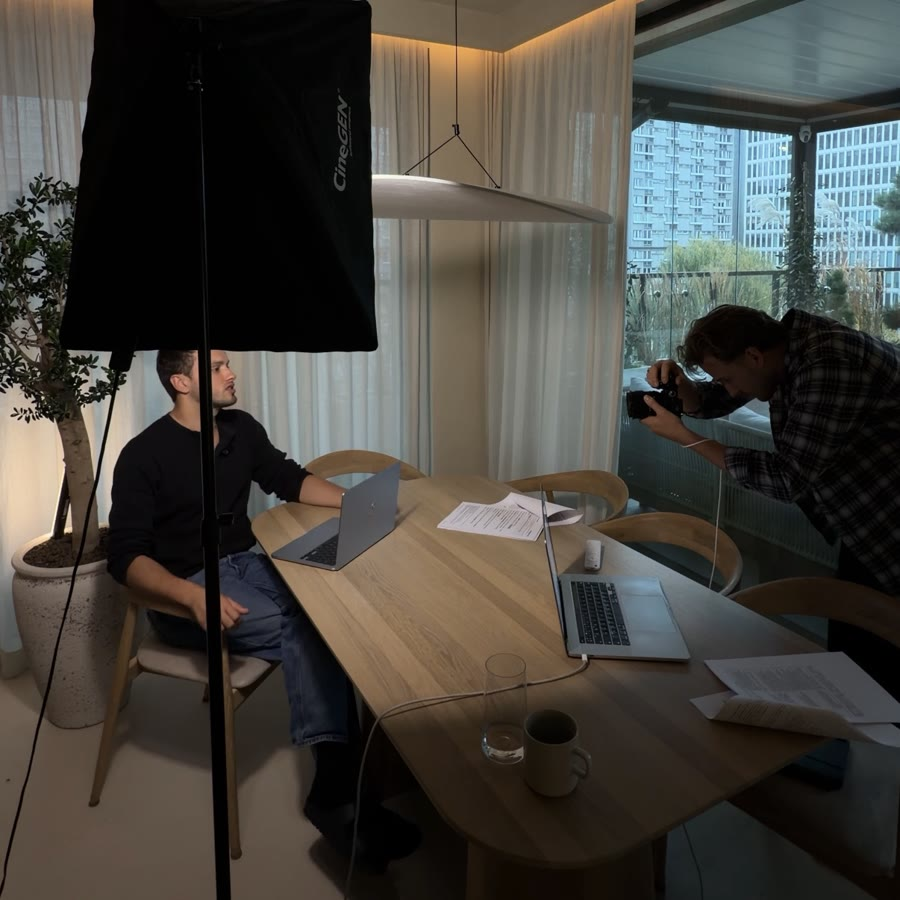
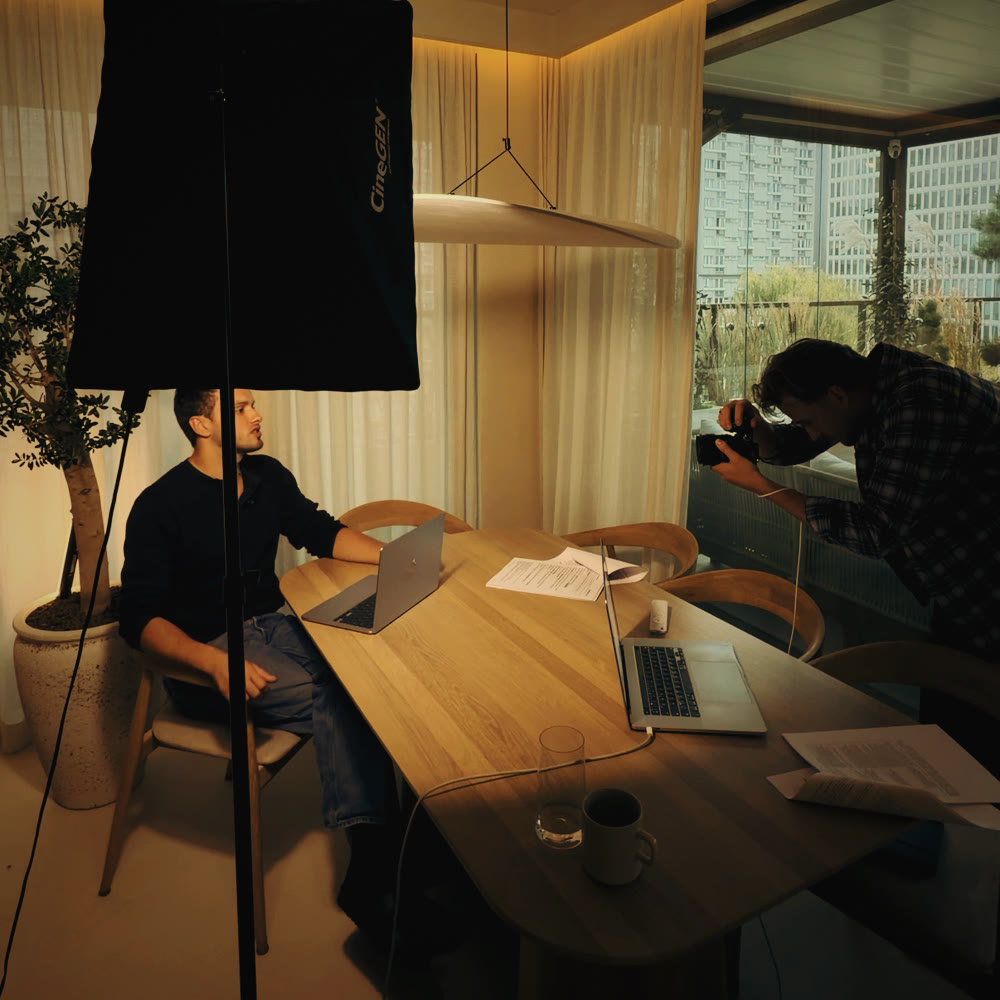
Film z powrotem w kafelku Produkcja wideo, zdjęcie z planu na podstronie
Claude-Session: https://claude.ai/code/session_01PYHVcbADnh8aXobNhcPciq

diff --git a/produkcja.html b/produkcja.html
@@ -27,10 +27,13 @@
 </div></nav>
 <div class="mobile-menu" id="mobileMenu"><a href="index.html" data-pl="Start" data-en="Home">Start</a><a href="ugc.html" data-pl="UGC" data-en="UGC">UGC</a><a href="produkcja.html" data-pl="Produkcja wideo" data-en="Video production">Produkcja wideo</a><a href="#kontakt" data-pl="Kontakt" data-en="Contact">Kontakt</a></div>
 <main>
-<section class="page-head wrap"><div class="inner">
+<section class="page-head with-media wrap"><div class="inner">
+  <div class="page-head-text">
   <p class="eyebrow" data-pl="Produkcja wideo · Ja za kamerą" data-en="Video production · Me behind the camera">Produkcja wideo · Ja za kamerą</p>
   <h1 data-pl="Content na Twój profil <em>i do kampanii</em>" data-en="Content for your profile <em>and your campaigns</em>">Content na Twój profil <em>i do kampanii</em></h1>
   <p class="lead" data-pl="Nagrywam i montuję rolki, które marka publikuje u siebie. Gotowe do kampanii płatnych i na profil w social mediach." data-en="I film and edit reels that the brand publishes on its own channels. Ready for paid campaigns and for the social media profile.">Nagrywam i montuję rolki, które marka publikuje u siebie. Gotowe do kampanii płatnych i na profil w social mediach.</p>
+</div>
+  <figure class="head-photo"><img src="kulisy-produkcja.jpg" alt="Szymon nagrywa rolki dla Studio Elementy" fetchpriority="high"/><figcaption data-pl="Na planie: Studio Elementy" data-en="On set: Studio Elementy">Na planie: Studio Elementy</figcaption></figure>
 </div></section>
 
 <section class="project wrap"><div class="inner">

diff --git a/style.css b/style.css
@@ -104,6 +104,11 @@ main{padding-top:58px}
 .page-head .inner{padding-block:4.5rem 2.5rem;display:grid;gap:1.2rem}
 .page-head h1{font-size:clamp(2.4rem,5vw,4rem)}
 .page-head h1 em{font-style:italic;font-weight:400;color:var(--accent)}
+.page-head.with-media .inner{grid-template-columns:1.1fr .9fr;gap:3.5rem;align-items:center}
+.page-head-text{display:grid;gap:1.2rem;align-content:center}
+.head-photo{margin:0;display:grid;gap:.7rem}
+.head-photo img{width:100%;aspect-ratio:1/1;object-fit:cover}
+.head-photo figcaption{font-size:.68rem;letter-spacing:.14em;text-transform:uppercase;color:var(--muted)}
 .page-head .lead{color:var(--muted);font-size:1.08rem;max-width:36rem}
 
 /* ---------- telefony (ramki) ---------- */
@@ -208,6 +213,7 @@ footer .logo{color:rgba(237,235,224,.55)}
   .hero .inner,.about .inner,.project-card,.contact .inner{grid-template-columns:1fr;gap:2.4rem}
   .hero .inner{padding-block:2rem 3rem}
   .portrait{aspect-ratio:4/5;order:-1}
+  .page-head.with-media .inner{grid-template-columns:1fr;gap:2rem}
   .door-grid,.offer-grid{grid-template-columns:1fr}
   .door-body{padding:1.4rem 1.4rem 1.6rem}
   .phones{gap:.7rem}

diff --git a/index.html b/index.html
@@ -54,7 +54,7 @@
       </div>
     </a>
     <a class="door" href="produkcja.html">
-      <div class="door-media"><img src="kulisy-produkcja.jpg" alt="Szymon nagrywa klienta na planie" loading="lazy"/></div>
+      <div class="door-media"><video src="studioelementy/se-fryzjerzy.mp4" poster="studioelementy/se-fryzjerzy.jpg" muted loop playsinline preload="metadata" data-autoplay></video></div>
       <div class="door-body">
         <p class="eyebrow" data-pl="Ja za kamerą" data-en="Me behind the camera">Ja za kamerą</p>
         <h3 data-pl="Produkcja wideo" data-en="Video production">Produkcja wideo</h3>
